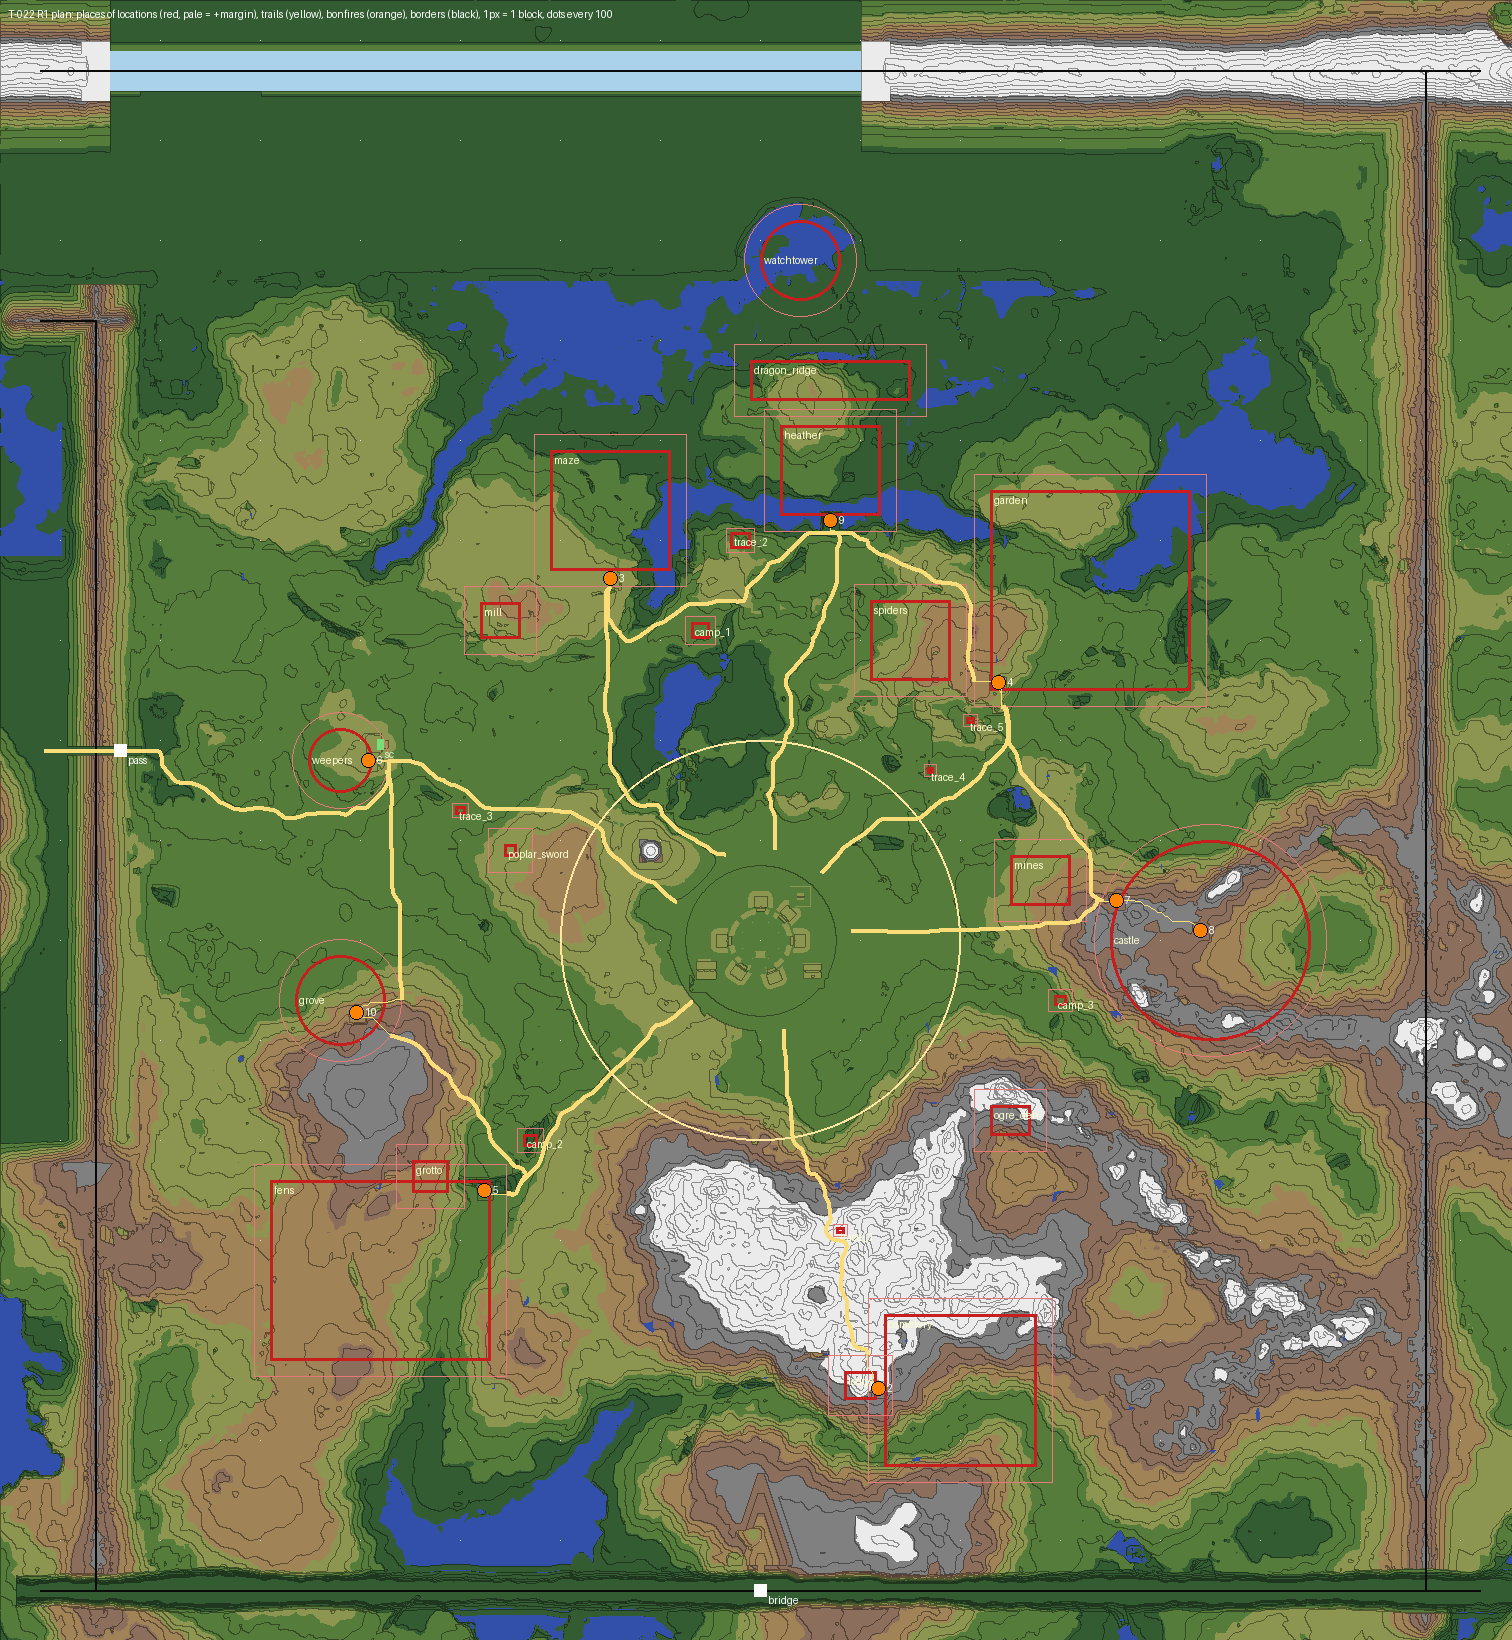
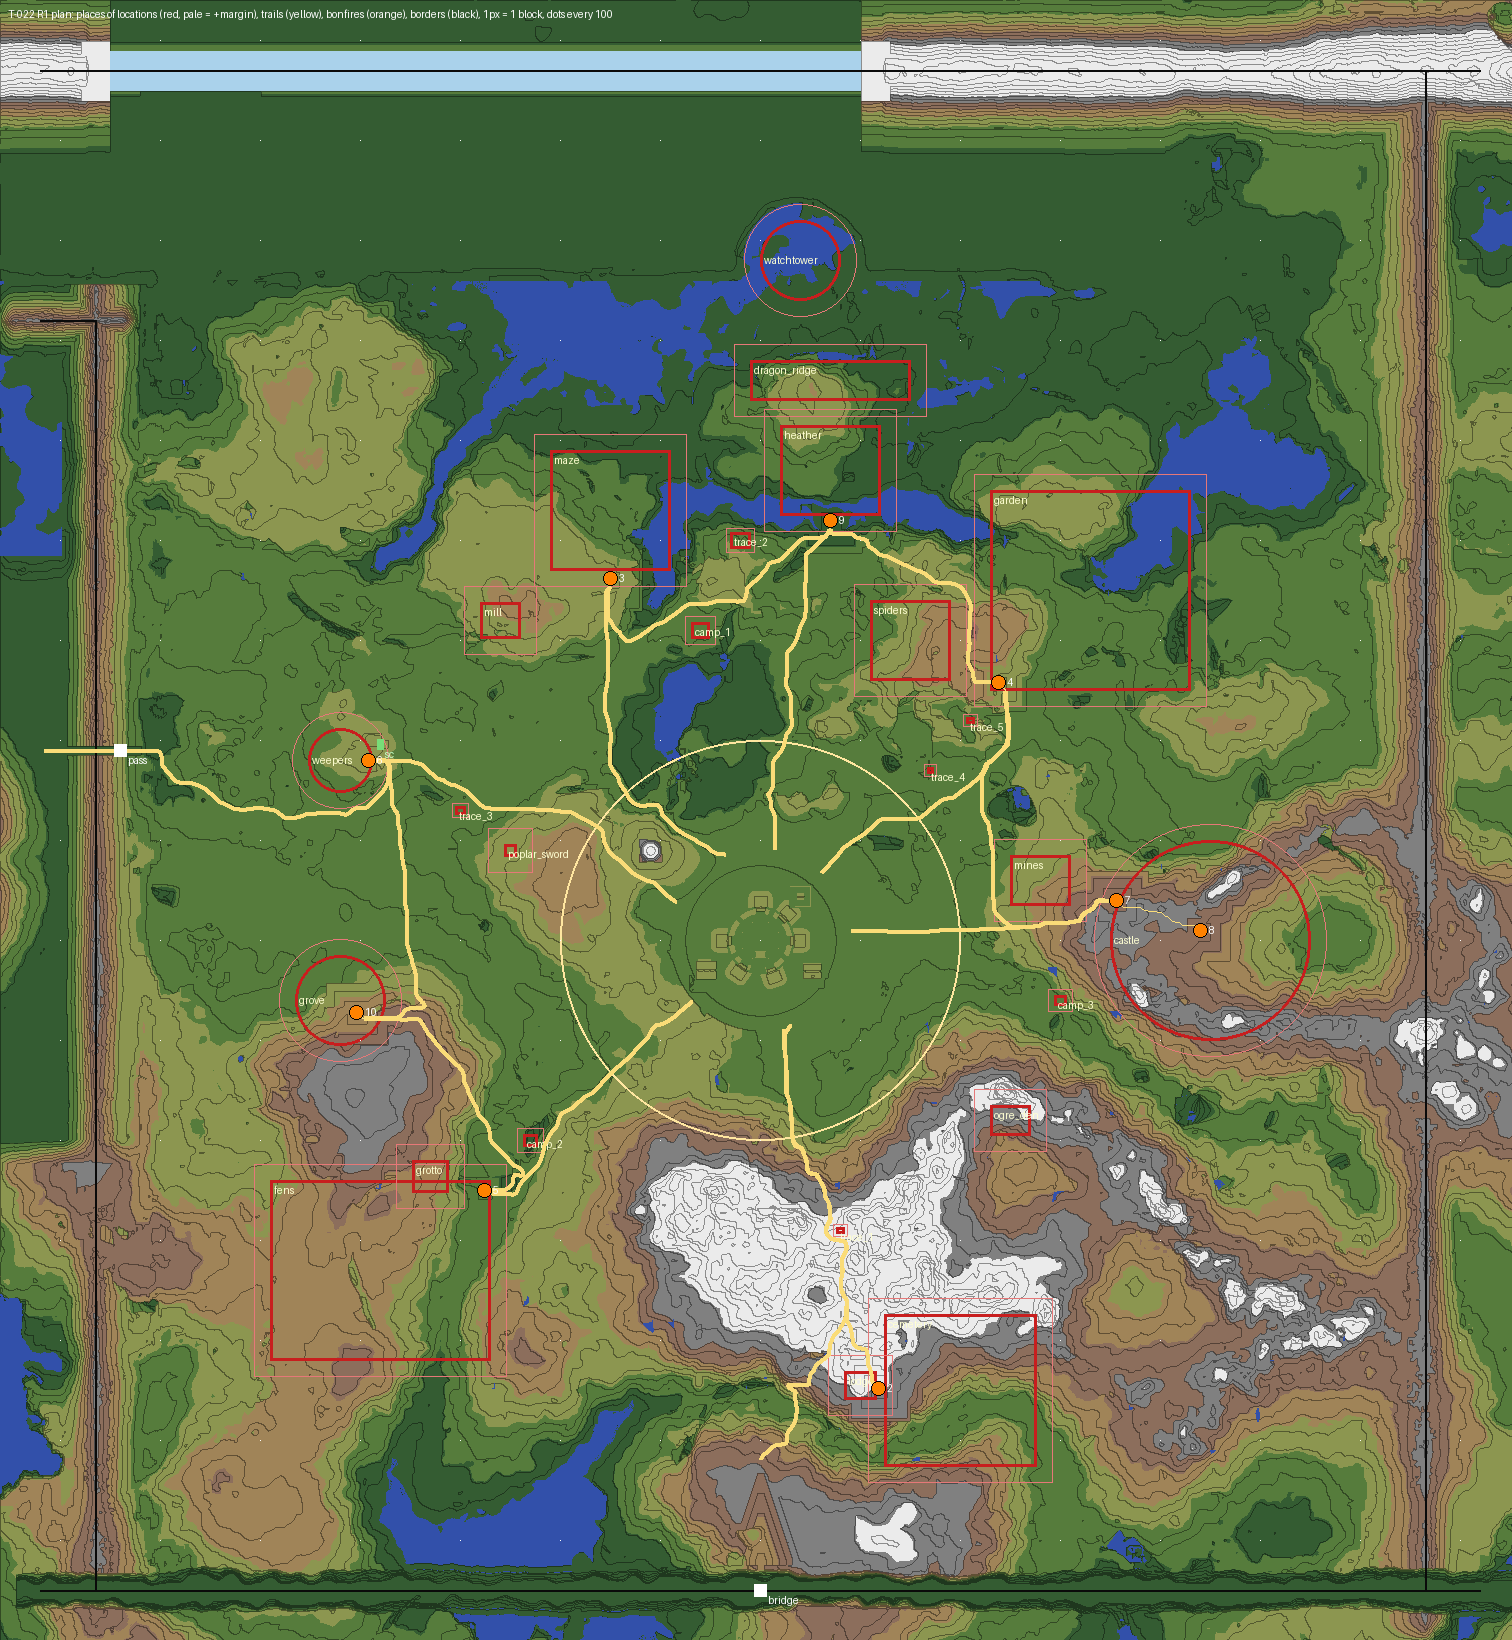
T-022 доработка: приёмка Штаба, подходы к кострам, бровки, откосы площадок, Южный тракт, живые стены Разлома

diff --git a/tools/build/r1_routes.py b/tools/build/r1_routes.py
@@ -1,14 +1,15 @@
 #!/usr/bin/env python3
 """T-022: walk-bot routes of the R1 trails (server/build/r1/r1.json from tools/build/r1.py) -> server/build/walk/r1_*.json
   r1_<a>_<b>.json       the trail itself (no jumps allowed: tools/walkbot.py without --jump)
-  r1_<a>_<b>_stub.json  from the trail's end over the natural ground of the place to the bonfire (the place is not sculpted: --jump)
+  r1_<a>_<b>_stub.json  from the trail's end over the bonfire pad to the hearth (since the HQ review the trail itself runs through the
+                        place up to the pad; only causeway -> bridge is a walk over the natural ground: the castle stairs, --jump)
 Also prints the length table (from the Refuge walls, r 200, like the card's table) -> server/build/r1/lengths.txt"""
 import json, math, os, sys
 ROOT = os.path.dirname(os.path.dirname(os.path.dirname(os.path.abspath(__file__))))
 OUT = os.path.join(ROOT, "server/build/walk"); os.makedirs(OUT, exist_ok=True)
 m = json.load(open(os.path.join(ROOT, "server/build/r1/r1.json")))
 B = {n: (x, y, z) for n, bid, x, y, z in m["bonfires"]}; NAME = {n: bid for n, bid, x, y, z in m["bonfires"]}
-def name(k): return {"R": "refuge", "W": "pass"}.get(k, NAME.get(k, str(k)))
+def name(k): return {"R": "refuge", "W": "pass", "S": "south_road"}.get(k, NAME.get(k, str(k)))
 def L(pts): return sum(math.hypot(b[0] - a[0], b[1] - a[1]) for a, b in zip(pts, pts[1:]))
 sys.path.insert(0, os.path.join(ROOT, "tools/build")); from scanio import Scan
 _scan = os.path.join(ROOT, "server/build/r1/after.bin"); GS = Scan(_scan if os.path.exists(_scan) else os.path.join(ROOT, "server/build/r1/base.bin"))
@@ -22,6 +23,8 @@ for t in m["trails"]:
     nm = "r1_%s_%s" % (name(a), name(b))
     if pts:
         json.dump({"start": [pts[0][0], pts[0][2] + 0.2, pts[0][1]], "points": pts[1:]}, open(os.path.join(OUT, nm + ".json"), "w"))
+    if b not in B:                                   # the South road: no bonfire at its end
+        rows.append((name(a), name(b), t["card"], round(L(t["line"])), 0, round(L([p for p in t["line"] if math.hypot(*p) >= 200])), None)); continue
     bx, by, bz = B[b]; stub = t["stub_b"]
     sp = [[x + 0.5, z + 0.5, gy(x, z)] for x, z in stub] + [[bx + 0.5, bz - 2.5, by]]     # ends on the respawn pad side of the hearth (z-? north stela)
     sp = [p for i, p in enumerate(sp) if i % 2 == 0 or i == len(sp) - 1]

diff --git a/tools/seedmap/Terrain.java b/tools/seedmap/Terrain.java
@@ -154,7 +154,7 @@ public class Terrain {
             case 1: return switch (b) { case 0, 3 -> T("stone"); case 1 -> T("andesite"); case 2, 5 -> T("tuff"); default -> pick(x, y, z, 3, 3, "stone", 2, "cobblestone", 1, "andesite"); };
             case 2: return switch (b) { case 0, 3 -> T("basalt[axis=y]"); case 1 -> T("blackstone"); case 2 -> T("tuff"); case 4 -> T("smooth_basalt"); default -> pick(x, y, z, 4, 3, "blackstone", 2, "basalt[axis=y]", 1, "tuff"); };
             case 3: return switch (b) { case 0, 3 -> T("deepslate[axis=y]"); case 1 -> T("tuff"); case 2 -> T("cobbled_deepslate"); case 4 -> T("smooth_basalt"); default -> pick(x, y, z, 5, 3, "deepslate[axis=y]", 2, "tuff", 1, "andesite"); };
-            case 4: { int bb = Math.floorMod((int) Math.floor((y + vnoise(x / 31.0, z / 31.0, 61) * 5) / 3.0), 7);
+            case 4: { int bb = Math.floorMod(Math.floorDiv(y, 3), 7);   // horizontal strata (HQ review T-022, 5); same as rift_rock() in r1.py
                 return switch (bb) { case 0 -> T("red_terracotta"); case 1 -> T("terracotta"); case 2 -> T("red_sandstone"); case 3 -> T("orange_terracotta"); case 4 -> T("sandstone"); case 5 -> T("brown_terracotta"); default -> T("red_sandstone"); }; }
             case 5: return switch (b) { case 0, 3 -> T("stone"); case 1 -> T("andesite"); case 2 -> T("tuff"); case 4 -> T("calcite"); default -> T("stone"); };
             case 8: return pick(x, y, z, 8, 5, "deepslate[axis=y]", 2, "tuff", 2, "cobbled_deepslate");

diff --git a/tools/build/r1_check.py b/tools/build/r1_check.py
@@ -36,9 +36,9 @@ if "plots" in what or "seam" in what or "water" in what:
     W = r1.World(); N = W.nat
 if "plots" in what:
     inside = W.pd <= 0
-    # allowed inside plots: bonfire pads (14x14 + rim), the shortcut ledge, the trail ends do not enter plots
-    allow = np.zeros_like(inside)
-    for n_, bid, x, z in r1.BONFIRES: allow[z - 9 - W.z0:z + 13 - W.z0, x - 10 - W.x0:x + 12 - W.x0] = True
+    # allowed inside plots: bonfire pads and their slopes, approaches to them (HQ review T-022, 1), the shortcut ledge
+    # bonfire pads with their slopes and the approach strips (trail + berm + shoulders): server/build/r1/allow.npz from r1.py
+    allow = np.load(os.path.join(r1.OUT, "allow.npz"))["allow"].copy()
     allow[-207 - W.z0:-187 - W.z0, -398 - W.x0:-372 - W.x0] = True
     m = inside & ~allow & ((S.flags & 16) == 0)
     base = W.base.ground

diff --git a/docs/tasks/T-022-review.md b/docs/tasks/T-022-review.md
@@ -1,0 +1,56 @@
+# Приёмка T-022
+
+Штаб → билдер · 14.11.2026 · по отчёту `docs/reports/T-022-report.md` и PR #76
+
+**Принято с доработкой.** Каркас Дола получился: `rebuild.sh` собирает Приют и Р1 с нуля без ручных шагов за 7–10 минут. Места локаций не тронуты, и это проверено по каждому столбцу. Стена и Кольцевая гора совпадают с картами высот. Все оси закрыты, ворота держат и открываются, хорус за хребет не пускает, девять костров работают. Новые `Terrain.java` и `pregen.py` пригодятся всем следующим регионам.
+
+Но по критерию «бот проходит без застреваний и падений» тропы пока не готовы, а несколько кадров не показывают то, что должны. Правки ниже делаются в том же PR #76. После них PR вливаем, отдельная приёмка не нужна: достаточно дописать раздел «Доработка» в отчёт.
+
+## Ответы на вопросы
+
+1. **Подходы к кострам — вариант (б).** Тропа идёт от края места до площадки костра у всех девяти костров, кроме перехода Гать → перед мостом (это лестница замка, её делает задача замка). Подход делается по тем же правилам, что и тропа: ширина 3, без прыжков, полублоки. Ведёт он к площадке самым коротким разумным путём, вдоль края места, а не через его середину. Полоса подхода — такое же исключение в `r1_check.py`, как площадка костра. Задача локации потом вправе её переделать, в `r1_plots.txt` её отметь.
+2. **Длины трёх переходов — принимаю**, костры не двигаем. Их места утверждены карточками, а по прямой эти переходы и так длиннее, чем в таблице. Расстояния в карточке были примерными. Самый длинный переход между соседними кострами — 330 блоков, это около минуты ходьбы. Это терпимо.
+3. **Башни, вмёрзшие силуэты и следы когтей Стены** — да, ждут задачи Чёрного Поста и Врат Стены (карточка Стены, Р3, партия 1). Таблицу мест силуэтов Архитектор даст вместе с ней. В Р1 Стена остаётся телом без деталей.
+
+## Отличия от задачи
+
+- Костры внутри мест — решено ответом 1.
+- Гать → перед мостом без своей тропы — да, это лестница замка.
+- Высота костров замка 163–168 — да, по рельефу сида.
+- Холм у Сгоревшей Дозорной вне карты высот Стены — да, место важнее.
+- Хвосты хребтов за пределами сгенерированной области — да, барьер поставит `borders.sh` после генерации тех мест. Запиши в CLAUDE.md, что это обязательный шаг каждой задачи, которая генерирует новые чанки у оси.
+- Строка `r1` в `death/regions.txt` — да.
+- **Тропа к мосту — нет, нужна** (правка 4). В «Границах регионов» (раздел 4): «От южных ворот Приюта к мосту — дорога около 450». Это Южный тракт, и в таблицу троп его не перенесли по моей ошибке.
+
+## Что поправить в PR #76
+
+1. **Подходы к кострам** по ответу 1. Включить по умолчанию, флаг `LE_R1_APPROACH` убрать.
+2. **Тропы без падений и застреваний.** Сейчас у 7 троп из 13 есть сход с насыпи на 2–5 блоков или застревание. Это нарушает критерий задачи. Варианты на выбор:
+   - на насыпях выше 2 блоков сделать бровку: верх насыпи на 1 блок шире тропы с каждой стороны;
+   - или ограждение по краю: камни, редкий забор, корни.
+
+   Застревания разобрать по месту. Прогнать бота по всем 13 тропам, Южному тракту и девяти подходам: каждый проход должен быть чистым. Если бот падает из-за того, как он рулит, а не из-за тропы, покажи это кадром и напиши в отчёте.
+3. **Площадки костров вписать в рельеф.** На кадре костра Топей (`r1_bonfire_from_trail_fens.jpg`) площадка стоит на столбе земли с отвесными стенками около 8 блоков. Нужны откосы 1:1 или ступенчатый склон, как у насыпей. Отвесных стенок у площадок не выше 2 блоков. Проверь все девять площадок.
+4. **Южный тракт** — тропа от южных ворот Приюта к подъезду моста. Длина около 450, правила те же. Ветвь от тропы на Кладбище допустима, если она не проходит через место Кладбища. Указатель на развилке.
+5. **Стены Ржавого Разлома живее.** На `r1_bridge_over_rift.jpg` стены отвесные и ровные по всей длине, а слои идут столбами. Земля здесь треснула, поэтому нужны неровность и обвалы:
+   - линия края гуляет на ±3–5 блоков;
+   - уступы и карнизы на разной высоте;
+   - стенка не везде строго вертикальная;
+   - осыпь глыб у подножия на дне, кроме русла;
+   - у южной стены слои терракоты идут по высоте (горизонтально), а не столбами.
+
+   Ширина 30–50 и сухое дно сохраняются. Бот и `borders_check` после правки должны пройти так же.
+6. **Кадры переснять** так, чтобы был виден предмет кадра:
+   - костёр Сада сейчас закрыт листвой;
+   - `r1_overview_north` упирается в скалу;
+   - на «трёх кострах с тропы» должен быть виден сам костёр.
+
+   Добавь второй общий план с высоты: камера над Приютом, взгляд на север и на юг, при прорисовке 12 чанков. Полосу внизу кадра (похоже на locator bar) из кадров убрать.
+
+## Живой игрок
+
+Сейчас от Эдварда ничего не нужно. FPS на настоящей видеокарте проверим, когда в Доле появятся локации.
+
+## Дальше
+
+**T-023 — Круг Плакальщиц и Алтарь I, угасание Р1** (`docs/tasks/T-023-r1-weepers-altar.md`). Её можно начинать после того, как PR #76 влит.
